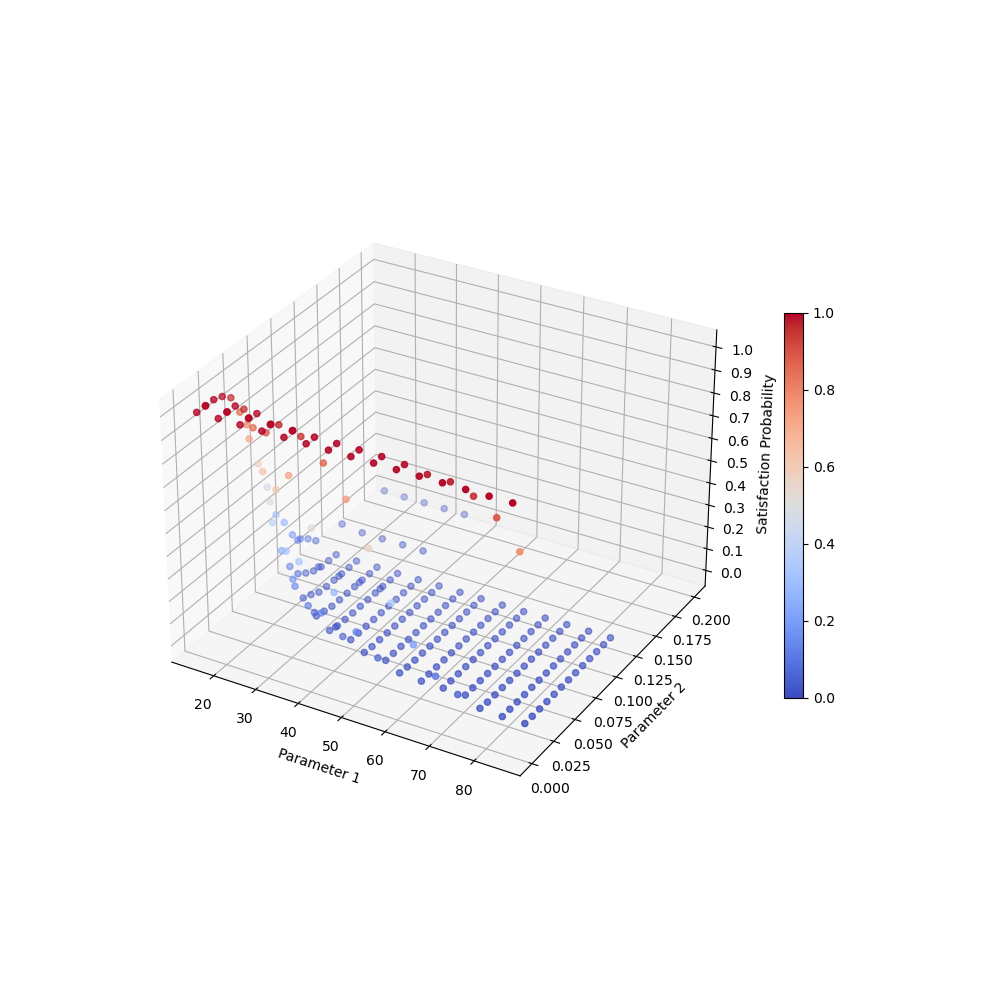
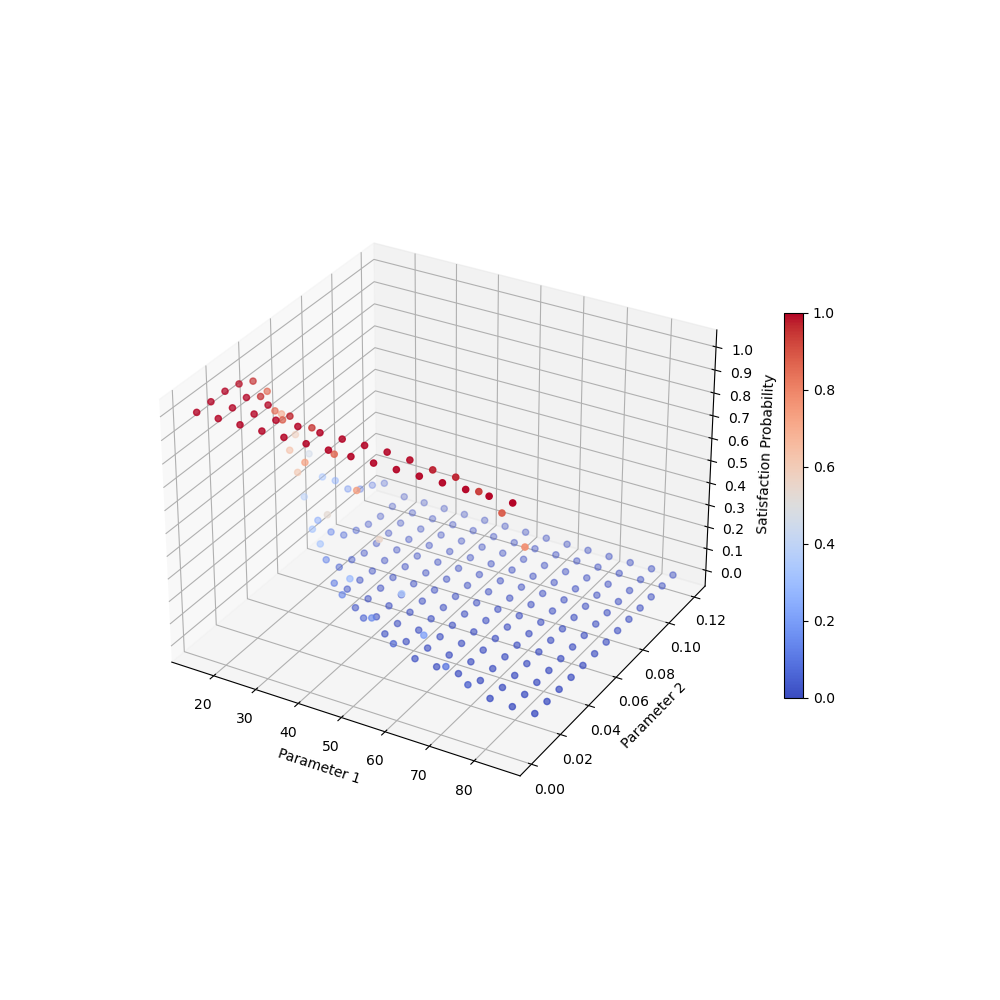
2-dim smc analysis for stochnet data

diff --git a/src/gaussian_process_classification.py b/src/gaussian_process_classification.py
@@ -470,6 +470,7 @@ def perform_ep(x, f, scale, kernel, params):
     """
     var = params['var']
     ell = params['ell']
+    ell_dim = params['ell_dim']
     mu_tilde = None
     invC = None
     try:
@@ -481,10 +482,10 @@ def perform_ep(x, f, scale, kernel, params):
             if any(s in str(err) for s in ['not positive definite', 'infs or NaNs']):
                 params = {'var': 1/3*var,
                         'ell': 1+ell,        
-                        'ell_dim': [2, 5],
+                        'ell_dim': [ell_dim[0]+1, ell_dim[1]+0.005],
                         'var_b': 1,
                         'off': 1}
-                print('nochmal')
+                print('RUN AGAIN')
                 perform_ep(x, f, scale, kernel, params)
             else:
                 raise
@@ -555,34 +556,35 @@ def get_posterior(x, x_s, f, mu_tilde, invC, kernel, params, name):
         p1 = np.unique(x_s[:,0])
         p2 = np.unique(x_s[:,1])
         plt.figure(figsize=(8, 8))
-        plt.contourf(p1, p2, probabilities)
-        plt.xlabel('Parameter 1')
-        plt.ylabel('Parameter 2')
+        plt.contourf(p1, p2, probabilities, levels=np.linspace(0,1,11))
+        plt.xlabel('$x1_*$')
+        plt.ylabel('$x2_*$', rotation=0)
         cbar = plt.colorbar()
         cbar.set_label('Satisfaction Probability')
+        plt.autoscale()
         plt.savefig(f'../figures/results/gpc/{name}_posteriorCont.png')
 
         # Surface Plot with mean posterior and training points
         l1, l2 = np.meshgrid(p1, p2)
         fig, ax = plt.subplots(subplot_kw={"projection": "3d"}, figsize=(10,10))
-        surf = ax.plot_surface(l1, l2, probabilities, cmap=cm.coolwarm)
-        ax.scatter(x[:,0], x[:,1], f, col='black')
-        plt.xlabel('Parameter 1')
-        plt.ylabel('Parameter 2')
+        surf = ax.plot_surface(l1, l2, probabilities, cmap=cm.coolwarm, vmin=0, vmax=1)
+        ax.scatter(x[:,0], x[:,1], f, c='black')
+        plt.xlabel('$x1_*$')
+        plt.ylabel('$x2_*$', rotation=0)
         cbar = fig.colorbar(surf, shrink=0.5)
         cbar.set_label('Satisfaction Probability')
-        plt.savefig(f'../figures/results/gpc/{name}_posteriorSurf.png')
+        plt.savefig(f'../figures/results/gpc/{name}_posteriorSurf.png', dpi=300)
 
         # Surface Plot with confidence bounds and training points
         fig, ax = plt.subplots(subplot_kw={"projection": "3d"}, figsize=(10,10))
-        surf = ax.plot_surface(l1, l2, lowerbound, cmap=cm.coolwarm, vmin=0.1, vmax=1)
-        surf = ax.plot_surface(l1, l2, upperbound, cmap=cm.coolwarm, vmin=0.1, vmax=1)
-        ax.scatter(x[:,0], x[:,1], f, color='black')
-        plt.xlabel('Parameter 1')
-        plt.ylabel('Parameter 2')
+        surf = ax.plot_surface(l1, l2, lowerbound, cmap=cm.coolwarm, vmin=0, vmax=1)
+        surf = ax.plot_surface(l1, l2, upperbound, cmap=cm.coolwarm, vmin=0, vmax=1)
+        ax.scatter(x[:,0], x[:,1], f, c='black')
+        plt.xlabel('$x1_*$')
+        plt.ylabel('$x2_*$', rotation=0)
         cbar = fig.colorbar(surf, shrink=0.5)
         cbar.set_label('Satisfaction Probability')
-        plt.savefig(f'../figures/results/gpc/{name}_posteriorSurfConf.png')
+        plt.savefig(f'../figures/results/gpc/{name}_posteriorSurfConf.png', dpi=300)
 
     else:
         print("Classification can only handle 1 or 2 dimensions.")
@@ -708,7 +710,7 @@ def analyse_stoch(t, v, l):
     plot_training(paramValueSet, paramValueOutput, f'bees_stochnet_{thresh}')
 
     # define default hyperparameters for kernels
-    # variance = max-min / 2 for output values (if this is 0, set to 1)
+    # variance = max-min / 2 for output values (if this is 0, set to 1) -> das noch scaled?
     # lengthscale = max - min / 10 for input values
     params = {'var': v,
             'ell': l,        
@@ -745,13 +747,14 @@ def analyse_stoch2(t, v, l):
     scale = 1000
     thresh = t
     paramValueSet, paramValueOutput = read_stochnet2(thresh, scale)
-    print(paramValueSet)
-    plot_training(paramValueSet, paramValueOutput,  f'bees_stochnet2_{thresh}')
+    plot_training(paramValueSet, paramValueOutput,  f'bees_stochnet2TRY_{thresh}')
 
     
     # define default hyperparameters for kernels
     # variance = max-min / 2 for output values (if this is 0, set to 1)
     # lengthscale = max - min / 10 for input values
+
+    
     params = {'var': v,
             'ell': 1,        
             'ell_dim': l,
@@ -761,8 +764,20 @@ def analyse_stoch2(t, v, l):
     mu_tilde, invC = perform_ep(paramValueSet, paramValueOutput, scale, kernel_rbf_ard, params)
 
     # derive predictive probabilities and confidence intervals, save plot
-    testset = np.linspace(15, 150, 500).reshape(-1,1)
-    p = get_posterior(paramValueSet, testset, paramValueOutput, mu_tilde, invC, kernel_rbf, params, f'bees_stochnet_{thresh}')
+    # define test set for which posterior is derived
+
+    Ns = 225  # number of testpoints
+    ptest1 = [5, 100]  # range of uncertain input parameter p1
+    ptest2 = [0, 0.135]  # range of uncertain input parameter p2
+    npoints = int(np.ceil(Ns**(1/2)))  # number of points per dimension
+    testset = np.zeros((Ns,2))  # create grid of equally spaced input points
+    lin1 = np.linspace(ptest1[0], ptest1[1], npoints)
+    lin2 = np.linspace(ptest2[0], ptest2[1], npoints)
+    testset[:,0] = np.repeat(lin1, npoints)
+    testset[:,1] = np.tile(lin2, npoints)
+
+    #testset = np.linspace(15, 150, 500).reshape(-1,1)
+    p = get_posterior(paramValueSet, testset, paramValueOutput, mu_tilde, invC, kernel_rbf_ard, params, f'bees_stochnet2TRY_{thresh}')
 
     return p
     
@@ -794,7 +809,8 @@ def main():
     coeff_variation(probs, f'bees_morgane2')
     """
 
-    analyse_stoch2(0.2, 0.1, [10, 0.095])
+    analyse_stoch2(0.15, 0.0005, [7, 0.0119])
+    #analyse_stoch2(0.01, 0.0005, [15, 0.01])
 
 
 

diff --git a/src/read_data.py b/src/read_data.py
@@ -72,21 +72,22 @@ def read_stochnet2(thresh, scale):
 
     for dirpath, dirs, files in os.walk("../data/stochnet2"):
         for file in files:
-            nbees = int((file.split("_")[1]).split(".")[0])
-            k = float((file.split("_")[2]).rsplit(".", 1)[0])
-            with open(os.path.join(dirpath, file), 'r') as f:
-                data = f.read()
-                x_deadbees = (data.split("]")[0])[1:].replace(".","")
-                y_frequencies = (data.split("]")[1])[2:]
-                # compute number of living bees 
-                bees = np.array([nbees-int(i) for i in x_deadbees.split()])
-                freq = np.array([int(i) for i in y_frequencies.split()])
-                
-                threshold = np.ceil(thresh * nbees)            
-                satisfactions = np.sum(freq[bees >= threshold])
-                
-                collect_data[(nbees,k)] = satisfactions
-                
+            if file.startswith("bees"):
+                nbees = int((file.split("_")[1]).split(".")[0])
+                k = round(float((file.split("_")[2]).rsplit(".", 1)[0]), 4)
+                with open(os.path.join(dirpath, file), 'r') as f:
+                    data = f.read()
+                    x_deadbees = (data.split("]")[0])[1:].replace(".","")
+                    y_frequencies = (data.split("]")[1])[2:]
+                    # compute number of living bees 
+                    bees = np.array([nbees-int(i) for i in x_deadbees.split()])
+                    freq = np.array([int(i) for i in y_frequencies.split()])
+                    
+                    threshold = np.ceil(thresh * nbees)            
+                    satisfactions = np.sum(freq[bees >= threshold])
+                    
+                    collect_data[(nbees,k)] = satisfactions
+                    
     # population size n together with number of trajectories satisfying property, sort by n
     paramValueSet = np.zeros((len(collect_data), 2))
     paramValueOutputs = []
